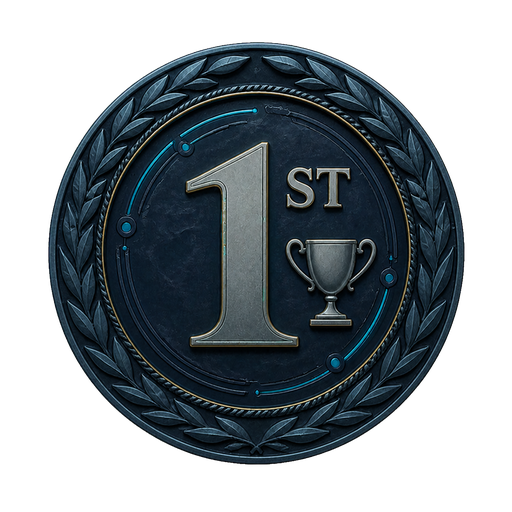
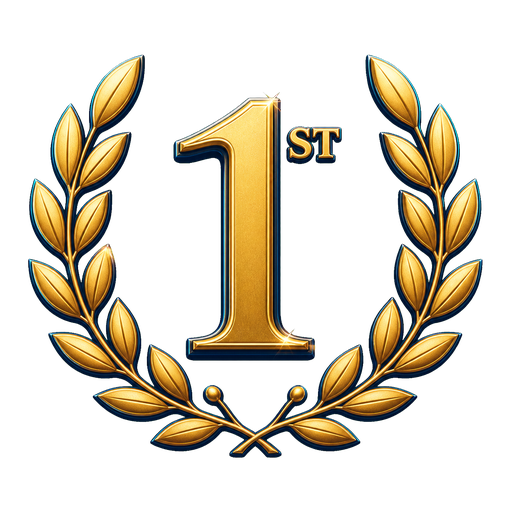
feat(landing): 지구본 TOP3 메달을 국토 크기에 맞추고 중앙에 얹는다
- 1~3위 메달도 4위 이하 숫자와 같은 방식으로 국가 영역(room)에 비례시킨다.
  전역 markSize 배율로 고정 축소하니 작은 나라와 큰 나라의 마커 비율이 어긋났다.
- 메달을 국가 좌표 위쪽이 아니라 세로 중앙에 놓는다(숫자 라벨과 같은 기준).
- 메달 PNG 3장 재출력으로 용량 축소(969KB → 761KB).

diff --git a/src/components/RankGlobe.tsx b/src/components/RankGlobe.tsx
@@ -330,7 +330,6 @@ export default function RankGlobe() {
       //    열 개가 뜨면 지구가 배지밭이 된다 — 시상대 셋만 그림이고 나머지는 숫자여야 위계가 산다.
       // ⚠ 숫자는 **어두운 테를 먼저 긋고 밝은 면을 얹는다**(`strokeText` → `fillText`).
       //    빛나는 국토 위에도 얹히므로 면만 칠하면 밝은 땅에서 글자가 통째로 증발한다.
-      const mk = CFG.markSize / 100
       type Mark = {
         x: number; y: number; ty: number; w: number; h: number; rank: number; fade: number
         /** 숫자 표시일 때의 글자 크기(px). 메달(1~3위)이면 0. */
@@ -365,7 +364,9 @@ export default function RankGlobe() {
         let h: number
         if (medal) {
           // 1~3위 에셋 — 땅에 맞춰 줄이되 바닥은 지킨다(끝까지 맞추면 궤도·라벨이 뭉개진다).
-          h = Math.min(Math.max(room * 0.6, g.R * ORD_FLOOR_R), g.R * ORD_SZ[c.rank] * mk)
+          // TOP3도 4위 이하 숫자와 같은 방식으로 국가 영역(room)에 비례시킨다.
+          // 전역 markSize 배율로 고정 축소하면 작은 나라와 큰 나라의 마커 비율이 어긋난다.
+          h = Math.min(Math.max(room * 0.6, g.R * ORD_FLOOR_R), g.R * ORD_SZ[c.rank])
         } else {
           const digits = String(c.rank).length
           // 절대 안 넘치게 하는 폭 상한. font-size 가 아니라 **그려지는 글자 폭**으로 재야 한다 —
@@ -420,7 +421,8 @@ export default function RankGlobe() {
           if (img?.complete && img.naturalWidth) {
             ctx.shadowColor = hsl(col.h, 94, 66, 0.22 * m.fade)
             ctx.shadowBlur = m.h * 0.035
-            ctx.drawImage(img, m.x - m.w / 2, m.ty - m.h * 0.9, m.w, m.h)
+            // 숫자 라벨과 동일하게 국가 좌표(m.ty)를 마커의 세로 중앙에 둔다.
+            ctx.drawImage(img, m.x - m.w / 2, m.ty - m.h * 0.5, m.w, m.h)
           }
         }
         ctx.restore()
